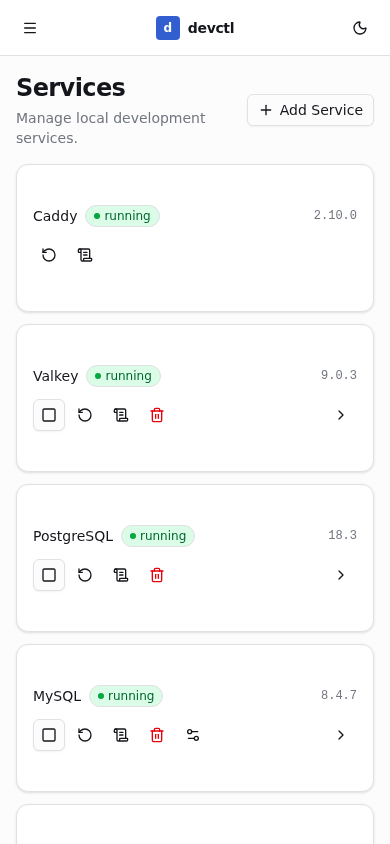
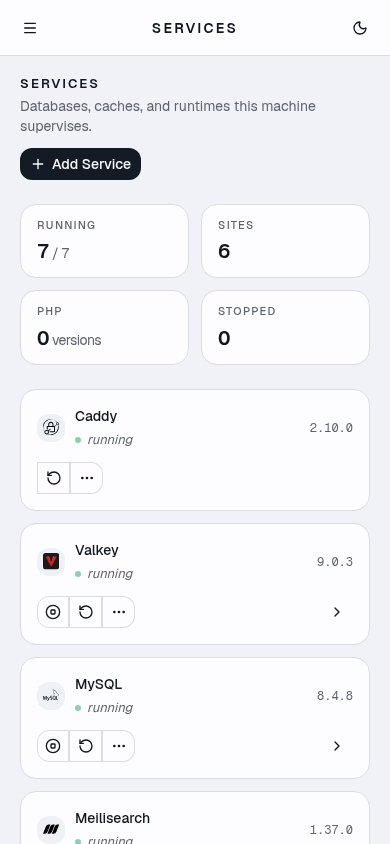
docs: recapture dashboard screenshots from the Incus demo container
Seed laravel/statamic/wordpress sites, running services, MySQL+SQLite
data, MaxIO buckets, and helpers, then snapshot every README page
against http://127.0.0.1:4001 (not the host dashboard).

diff --git a/scripts/screenshots.js b/scripts/screenshots.js
@@ -19,6 +19,7 @@
  *     screenshot-settings.png
  *     screenshot-maxio.png
  *     screenshot-whodb.png
+ *     screenshot-helpers.png
  *
  *   Mobile (390×844):
  *     screenshot-mobile-services.png
@@ -30,6 +31,7 @@
  *     screenshot-mobile-settings.png
  *     screenshot-mobile-maxio.png
  *     screenshot-mobile-whodb.png
+ *     screenshot-mobile-helpers.png
  */
 
 import puppeteer from "puppeteer";
@@ -135,8 +137,8 @@ const PAGES = [
     desktop: "screenshot-logs.png",
     mobile:  "screenshot-mobile-logs.png",
     async before(page) {
-      await page.waitForSelector("aside button", { timeout: 5000 }).catch(() => {});
-      await clickFirst(page, "aside button", 1000);
+      await page.waitForSelector("aside .overflow-y-auto button", { timeout: 5000 }).catch(() => {});
+      await clickFirst(page, "aside .overflow-y-auto button", 1000);
     },
   },
   {
@@ -145,18 +147,52 @@ const PAGES = [
     mobile:  "screenshot-mobile-settings.png",
   },
   {
-    // MaxIO: custom file-browser UI — give it a moment to load bucket list.
+    // MaxIO: open the seeded demo-files bucket so objects are visible.
     route:      "/maxio",
     desktop:    "screenshot-maxio.png",
     mobile:     "screenshot-mobile-maxio.png",
-    extraWait:  1000,
+    extraWait:  800,
+    async before(page) {
+      await page.waitForFunction(
+        () => [...document.querySelectorAll("span")].some(s => s.textContent === "demo-files"),
+        { timeout: 8000 },
+      ).catch(() => {});
+      const spans = await page.$$("span");
+      for (const el of spans) {
+        const t = await el.evaluate(n => n.textContent);
+        if (t === "demo-files") {
+          await el.click();
+          await sleep(1200);
+          break;
+        }
+      }
+    },
   },
   {
-    // Databases: built-in TablePlus-style explorer.
+    // Databases: open MySQL laravel.users so the grid shows rows.
     route:      "/databases",
     desktop:    "screenshot-whodb.png",
     mobile:     "screenshot-mobile-whodb.png",
-    extraWait:  1000,
+    extraWait:  800,
+    async before(page) {
+      await page.waitForSelector('[data-catalog="mysql::laravel"]', { timeout: 10000 }).catch(() => {});
+      const cat = await page.$('[data-catalog="mysql::laravel"]');
+      if (cat) {
+        await cat.click();
+        await sleep(1500);
+      }
+      await page.waitForSelector('[data-table="::users"]', { timeout: 8000 }).catch(() => {});
+      const tbl = await page.$('[data-table="::users"]');
+      if (tbl) {
+        await tbl.click();
+        await sleep(1500);
+      }
+    },
+  },
+  {
+    route:   "/helpers",
+    desktop: "screenshot-helpers.png",
+    mobile:  "screenshot-mobile-helpers.png",
   },
 ];
 

diff --git a/README.md b/README.md
@@ -269,6 +269,8 @@ AWS_ENDPOINT=https://s3.maxio.test
 
 Helpers are optional CLI binaries downloaded into `{serverRoot}/bin/` (on `PATH`). They are not supervised services — no start/stop, just install / update / uninstall.
 
+![Helpers catalog](docs/screenshot-helpers.png)
+
 sqlite3 is installed by default. Everything else is opt-in from the **Helpers** page or the CLI.
 
 | Helper | Source | Notes |
@@ -819,6 +821,7 @@ The dashboard is fully responsive. On narrow viewports the sidebar collapses int
   <img src="docs/screenshot-mobile-settings.png" width="200" alt="Settings page on mobile">
   <img src="docs/screenshot-mobile-maxio.png" width="200" alt="MaxIO on mobile">
   <img src="docs/screenshot-mobile-whodb.png" width="200" alt="Databases explorer on mobile">
+  <img src="docs/screenshot-mobile-helpers.png" width="200" alt="Helpers catalog on mobile">
 </p>
 
 Additional screenshots:

diff --git a/TODO.md b/TODO.md
@@ -11,8 +11,6 @@ Commit all files to the repo BUT DO NOT PUSH
 # Backlog
 
 - set up a devctl.test proxy domain in caddy to the devctl dashboard so we can have https - still allow access on the raw 4000 port though
-- recapture Databases screenshots (`screenshot-whodb.png` / `screenshot-mobile-whodb.png`) for the README now that WhoDB is gone and the explorer is custom
-- add Helpers page screenshot for the README
 
 # Feature ideas (notes from Yerd / Lerd comparison)
 
@@ -161,5 +159,8 @@ Detect installed services (MySQL, Postgres, Valkey, Mailpit, Meili, Typesense, M
 
 
 # Completed
+
+- recapture all README screenshots from the Incus demo container (sites, services, MySQL/SQLite data, MaxIO buckets, Helpers) (2026-08-20)
+- add Helpers page screenshot for the README (2026-08-20)
 
 
